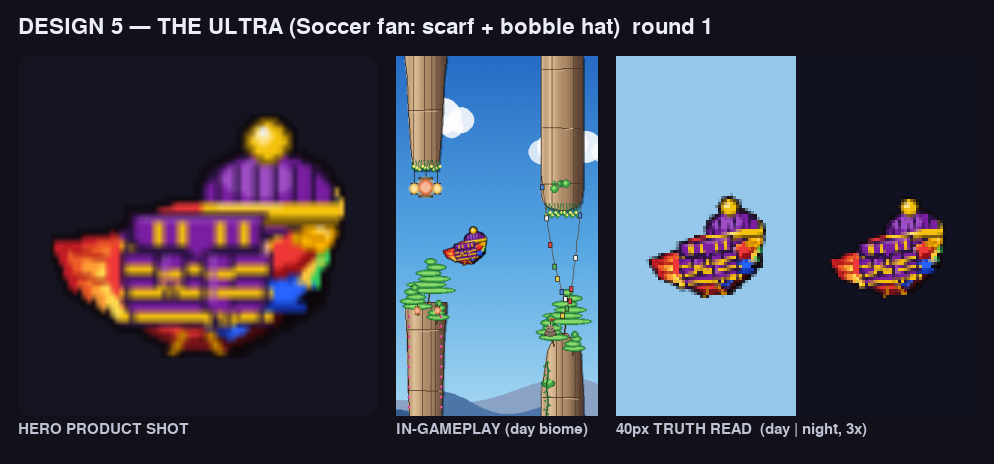
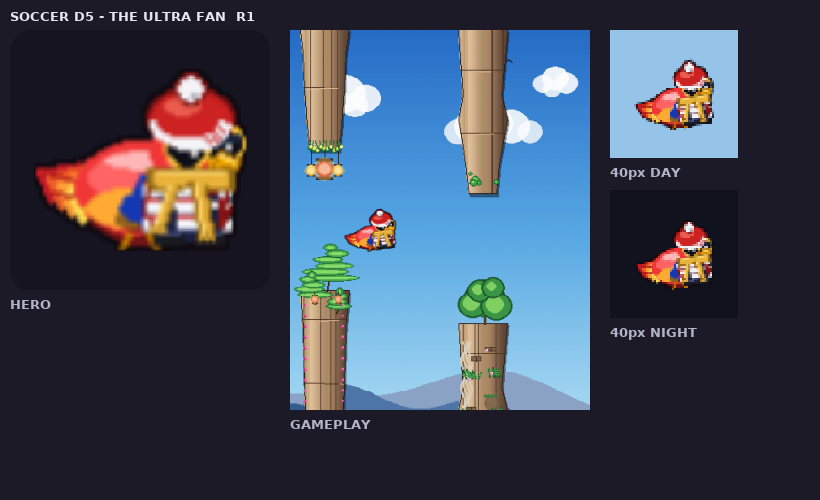
soccer D5 v2: The Ultra Fan — HX,HY jersey anchor + bobble hat + gold scarf
Re-anchor the supporter jersey on the head anchors (HX,HY) using the proven
baseball jersey polygon so the torso sits where the bird body is (top y=49,
hem y=64, nothing above y=49). Replace the flat headband with a full rounded
bobble HAT dome + proud pompom on the crown, and make the looped gold club
SCARF with two staggered fringed tails the hero, drawn last in front.

Claude-Session: https://claude.ai/code/session_01HafGQfRZVDiGkQqpJPr5Cm

diff --git a/tools/soccer_candidates/design_5.py b/tools/soccer_candidates/design_5.py
@@ -1,26 +1,21 @@
-"""DESIGN 5 — THE ULTRA (Soccer / Football — supporter / fan).
+"""DESIGN 5 — THE ULTRA FAN (Soccer / Football — supporter, v2).
 
 Scratch exploration only — NOT registered in store_skins.BUILDERS. Pip the
 scarlet macaw kitted as a match-day terrace fan rather than a player: the SET's
-only NON-player, the loudest break from the clean athletic kits. The read is
-carried by KNITWEAR, not a kit — a chunky club SCARF looped at the neck with
-two fringed tails streaming down the chest (drawn LAST, the hero), a bobble
-BEANIE on the crown, a WHITE-hooped jersey on the torso, and a dab of cheek
-face-paint. Club purple + gold.
+only NON-player. The read is carried by KNITWEAR + a club SCARF, not an athletic
+kit. The hero is a gold club SCARF looped once at the neck with two staggered
+fringed tails draped down the chest (drawn LAST, in front of everything), under
+a full bobble HAT on the crown.
 
-Two-garment legibility is the whole job at 40px, so the jersey and the scarf
-deliberately speak DIFFERENT stripe languages: the replica TOP is white hoops
-on purple (a cheap club shirt), while the chunky SCARF is gold hoops on purple.
-White-vs-gold is what splits the torso into two reads instead of one striped
-mass. The two scarf tails are kept apart by a strip of bare scarlet chest and
-staggered hard in length so they read as two streamers, not a bib.
+v2 fix: the jersey is anchored on the HEAD anchors (HX,HY) using the proven
+baseball jersey polygon (tools/sports_candidates/design_4.py) so the torso sits
+where the bird's body actually is — jersey top y=HY+8 (=49), hem y=HY+23 (=64).
+Nothing from the jersey rises above y=49. The crown wears a full rounded bobble
+HAT dome (NOT a flat headband) with a pompom standing proud on top.
 
-The costume is painted OVER the scarlet body (head stays the macaw so Pip still
-reads as a parrot). Everything is held INSIDE the base bird footprint: the
-beanie sits on the crown, the scarf tails stop above the feet line, and nothing
-balloons the torso — the knit silhouette alone says "fan", not "player".
-
-Headless render: tools/soccer_candidates/render_design_5.py.
+The supporter speaks two stripe languages on purpose: the replica TOP is white
+HOOPS on red, while the chunky SCARF is solid GOLD. Red shirt vs gold scarf is
+what splits the chest into two clean reads at 40px.
 """
 import pygame
 
@@ -28,151 +23,102 @@ from game import store_skins
 from game.store_skins import HX, HY, CROWN_Y, _poly
 
 
-# Club purple + gold, with a deep-purple knit value so the chunky scarf and the
-# striped shirt still separate after the 40px downscale. Three values per
-# material (knit, gold) keep the knitwear reading as round/woolly, not flat.
-_ULT_PURP    = (122, 31, 162)       # #7A1FA2 club purple (jersey / scarf body)
-_ULT_PURP_D  = (42, 19, 64)         # #2A1340 deep purple knit shadow / linework
-_ULT_PURP_H  = (158, 78, 196)       # purple highlight (knit crowns / collar)
-_ULT_GOLD    = (244, 194, 13)       # #F4C20D club gold (scarf stripes / band)
-_ULT_GOLD_H  = (255, 226, 120)      # gold glint
-_ULT_GOLD_D  = (120, 90, 10)        # crisp gold underline so it reads as kit
-_ULT_WHITE   = (244, 244, 248)      # #F4F4F8 white (jersey hoops / pompom glint)
-_ULT_WHITE_D = (170, 172, 188)      # cool white shade — undercut on jersey hoops
-_ULT_CHEEK   = (232, 160, 180)      # #E8A0B4 cheek face-paint dab
-
-
-# Body centre in composite space (parrot body centre (32,32) + PARROT_DY=20).
-BCX, BCY = 32, 52
-
-
-def _fringe_zigzag(surf, color, x0, x1, y, depth, teeth):
-    """A bold notched ZIGZAG silhouette along a tail end → the ragged frayed
-    HEM of a knit scarf. Drawn as a filled triangle fan (2px-class teeth) so the
-    jagged edge survives the 40px downscale where thin internal ticks vanish.
-    Hand-stepped per candidate so each keeps its own fringe geometry."""
-    span = max(1, x1 - x0)
-    pts = [(x0, y)]
-    for i in range(teeth):
-        tx0 = x0 + round(span * i / teeth)
-        tx1 = x0 + round(span * (i + 1) / teeth)
-        mid = (tx0 + tx1) // 2
-        pts.append((mid, y + depth))     # tooth tip dips below the hem
-        pts.append((tx1, y))             # back up to the hem line
-    pts.append((x1, y))
-    _poly(surf, color, pts)
+# Club red + gold. Three values per material keep the knit reading round, not
+# flat, after the 40px downscale.
+_RED      = (204, 34, 34)        # #CC2222 club red — jersey field, hat, socks
+_RED_D    = (132, 20, 20)        # deep red shadow / linework
+_RED_H    = (236, 92, 78)        # red highlight (hat sheen)
+_WHITE    = (244, 244, 248)      # #F4F4F8 jersey hoops / hat rim / pompom
+_WHITE_D  = (176, 178, 192)      # cool white shade
+_GOLD     = (232, 178, 58)       # #E8B23A scarf face (the hero gold)
+_GOLD_H   = (255, 218, 120)      # gold glint
+_GOLD_D   = (150, 108, 24)       # gold shadow so the scarf reads as draped fabric
+_NAVY     = (28, 34, 68)         # #1C2244 shorts / sock pillars / boots
+_NAVY_H   = (74, 84, 132)        # navy rim glint
+_DARK     = (26, 26, 34)         # near-black boot body
 
 
 def _paint(surf, _a):
-    # --- WHITE-hooped club JERSEY over the torso --------------------------------
-    # The supporter's replica top: club purple filled, then bold WHITE horizontal
-    # hoops (deliberately NOT gold — gold is reserved for the scarf, so the two
-    # garments read as two distinct stripe palettes instead of one striped mass).
-    # Kept inside the footprint (top ~BCY-12, hem ~BCY+11) so it never balloons.
-    jersey = [(BCX - 15, BCY - 9), (BCX - 16, BCY - 1), (BCX - 14, BCY + 11),
-              (BCX + 13, BCY + 11), (BCX + 15, BCY - 1), (BCX + 13, BCY - 9),
-              (BCX + 4, BCY - 12), (BCX - 6, BCY - 12)]
-    _poly(surf, _ULT_PURP, jersey)
-
-    # White hoops — 2px bands on a 5px pitch, with a cool-white undercut so the
-    # bar reads as cloth, not a gap. Clipped to the jersey so they don't leak.
+    # --- WHITE-hooped club JERSEY over the torso (HX,HY anchors) -----------------
+    # Proven baseball jersey footprint, recoloured: red field + horizontal white
+    # hoops. Jersey top sits at HY+8 (y=49), hem at HY+23 (y=64) — nothing rises
+    # above y=49, so it never balloons up into the macaw's chin/cheek.
+    jersey = [(HX - 13, HY + 8), (HX - 14, HY + 18), (HX - 10, HY + 23),
+              (HX + 8, HY + 23), (HX + 11, HY + 18), (HX + 9, HY + 8)]
+    _poly(surf, _RED, jersey)
+    # Three bold WHITE hoops, each 3px tall, evenly spaced from HY+10..HY+21.
+    # Clipped to the jersey footprint so the bars never leak past the cloth edge.
     clip_prev = surf.get_clip()
-    surf.set_clip(pygame.Rect(BCX - 16, BCY - 12, 32, 24))
-    for sy in range(BCY - 6, BCY + 11, 5):
-        pygame.draw.line(surf, _ULT_WHITE, (BCX - 16, sy), (BCX + 15, sy), 2)
-        pygame.draw.line(surf, _ULT_WHITE_D, (BCX - 16, sy + 2), (BCX + 15, sy + 2), 1)
+    surf.set_clip(pygame.Rect(HX - 14, HY + 8, 26, 16))
+    for sy in (HY + 10, HY + 15, HY + 20):
+        pygame.draw.rect(surf, _WHITE, (HX - 14, sy, 26, 3))
+        pygame.draw.line(surf, _WHITE_D, (HX - 14, sy + 3), (HX + 12, sy + 3), 1)
     surf.set_clip(clip_prev)
-    pygame.draw.polygon(surf, _ULT_PURP_D, jersey, 1)
+    # Off-side shade so the jersey reads as a rounded torso, not a flat card.
+    _poly(surf, _RED_D, [(HX + 5, HY + 9), (HX + 11, HY + 18),
+                         (HX + 8, HY + 23), (HX + 6, HY + 22)])
+    pygame.draw.polygon(surf, _RED_D, jersey, 1)
 
-    # --- Cheek face-paint dab (a fan tell, off the macaw cheek) -----------------
-    # A soft purple/pink diagonal swipe on the near cheek — supporter war-paint.
-    # One value so it reads as paint on feather, not a mask.
-    pygame.draw.line(surf, _ULT_CHEEK, (HX - 7, HY + 3), (HX - 1, HY + 6), 3)
-    pygame.draw.line(surf, _ULT_GOLD, (HX - 6, HY + 1), (HX - 2, HY + 3), 1)
+    # --- Dark SHORTS band under the jersey hem (HY+23..26) -----------------------
+    pygame.draw.rect(surf, _NAVY, (HX - 11, HY + 23, 20, 4), border_radius=1)
+    pygame.draw.line(surf, _NAVY_H, (HX - 10, HY + 23), (HX + 7, HY + 23), 1)
 
-    # --- Bobble BEANIE on the crown (round, with a pompom) ----------------------
-    # A knit cap pulled over the crown: a rounded purple dome, a folded ribbed
-    # brim with a gold band, and a gold POMPOM bobble standing proud on top.
-    cap_cx, cap_top = HX, CROWN_Y - 3
-    # Dome — an ellipse capping the head. Deep-purple base, a MID-purple body, and
-    # only a small lit cap near the crown: keeping the dome darker than the gold
-    # band gives the band (and bobble) clear value separation so the hat doesn't
-    # collapse into one gold blob.
-    pygame.draw.ellipse(surf, _ULT_PURP_D, (cap_cx - 14, cap_top - 1, 28, 18))
-    pygame.draw.ellipse(surf, _ULT_PURP, (cap_cx - 13, cap_top, 26, 16))
-    pygame.draw.ellipse(surf, _ULT_PURP_H, (cap_cx - 9, cap_top + 1, 13, 6))
-    # Vertical knit ribs across the dome so it reads chunky-knit, not smooth.
-    for rx in range(cap_cx - 11, cap_cx + 12, 4):
-        pygame.draw.line(surf, _ULT_PURP_D, (rx, cap_top + 2), (rx, cap_top + 11), 1)
-    # Folded ribbed brim — a gold band hugging the head, the classic beanie cuff.
-    pygame.draw.line(surf, _ULT_GOLD_D, (cap_cx - 14, cap_top + 12), (cap_cx + 14, cap_top + 12), 5)
-    pygame.draw.line(surf, _ULT_GOLD, (cap_cx - 14, cap_top + 11), (cap_cx + 14, cap_top + 11), 3)
-    pygame.draw.line(surf, _ULT_GOLD_H, (cap_cx - 11, cap_top + 10), (cap_cx + 2, cap_top + 10), 1)
-    # POMPOM bobble — a bigger round ball lifted clear ABOVE the dome line with a
-    # dark rim and a bright white glint, so the bobble pops as a distinct sphere
-    # proud of the crown rather than blending into the gold band below.
-    bob_x, bob_y = cap_cx, cap_top - 5
-    pygame.draw.circle(surf, _ULT_PURP_D, (bob_x, bob_y), 6)   # dark rim halo
-    pygame.draw.circle(surf, _ULT_GOLD_D, (bob_x, bob_y), 5)
-    pygame.draw.circle(surf, _ULT_GOLD, (bob_x, bob_y), 4)
-    pygame.draw.circle(surf, _ULT_WHITE, (bob_x - 1, bob_y - 2), 2)
-    pygame.draw.circle(surf, _ULT_GOLD_H, (bob_x + 1, bob_y), 1)
+    # --- SOCKS — two navy pillars (HY+13..HY+24) with a single white hoop -------
+    for sx in (HX - 9, HX + 3):
+        pygame.draw.rect(surf, _NAVY, (sx, HY + 13, 5, 11), border_radius=1)
+        pygame.draw.line(surf, _NAVY_H, (sx, HY + 14), (sx, HY + 23), 1)
+        pygame.draw.line(surf, _WHITE, (sx, HY + 15), (sx + 4, HY + 15), 2)
 
-    # --- Chunky knit SCARF looped at the neck (HERO — drawn LAST) ----------------
-    # The signature. A thick scarf loops across the throat then drops two fringed
-    # tails down the chest. GOLD hoops on purple (vs the jersey's white hoops)
-    # make the scarf its own garment. A 2px deep-purple rim on the loop and both
-    # tails reads the knit as chunky and keeps it separate from the shirt under
-    # it. Tails stay within the footprint width and stop above the feet line.
-    ny = BCY - 9
-    # The neck loop — a fat band wrapping the throat, with a knot dip at centre
-    # where the two tails leave from. Shadow underlay first for thickness.
-    loop = [(BCX - 14, ny - 3), (BCX + 14, ny - 3), (BCX + 13, ny + 4),
-            (BCX + 4, ny + 4), (BCX, ny + 7), (BCX - 4, ny + 4),
-            (BCX - 13, ny + 4)]
-    _poly(surf, _ULT_PURP_D, loop)
-    loop_in = [(BCX - 12, ny - 1), (BCX + 12, ny - 1), (BCX + 11, ny + 3),
-               (BCX + 3, ny + 3), (BCX, ny + 5), (BCX - 3, ny + 3),
-               (BCX - 11, ny + 3)]
-    _poly(surf, _ULT_PURP, loop_in)
-    # Gold hoops across the loop so the scarf carries the gold language.
-    for gx in (BCX - 9, BCX - 4, BCX + 4, BCX + 9):
-        pygame.draw.line(surf, _ULT_GOLD, (gx, ny - 1), (gx, ny + 3), 2)
-    pygame.draw.line(surf, _ULT_PURP_H, (BCX - 11, ny - 1), (BCX + 11, ny - 1), 1)
-    pygame.draw.polygon(surf, _ULT_PURP_D, loop, 2)
+    # --- BOOTS at the feet line (HY+24..27) with a sole tick --------------------
+    for fx in (HX - 11, HX + 1):
+        pygame.draw.rect(surf, _DARK, (fx, HY + 24, 9, 3), border_radius=2)
+        pygame.draw.line(surf, _NAVY_H, (fx + 1, HY + 24), (fx + 7, HY + 24), 1)
+        # Sole tick under the boot — the football-boot read.
+        pygame.draw.line(surf, _DARK, (fx, HY + 27), (fx + 8, HY + 27), 1)
 
-    # Two fringed TAILS streaming down the chest, split by a wide strip of bare
-    # scarlet chest so the negative space reads them as TWO streamers, not a bib.
-    # Each tail is a gold-EDGED purple strap (a continuous 1px gold rim down both
-    # sides + gold rungs) so it reads as the gold scarf laid OVER the white-hooped
-    # shirt — gold edges vs white bars is the contrast that keeps the strap on top
-    # of the jersey legible. The near (right) tail hangs much longer and drops its
-    # fringe onto bare scarlet BELOW the jersey hem; the far (left) tail is short
-    # and tucked, so the two are staggered hard. Drawn LAST → fully on top.
-    def _tail(x0, x1, top, btm, lit_left):
-        # A gold-rimmed purple knit strap with rungs and a zigzag-fringe hem.
-        body = [(x0, top), (x1, top), (x1, btm), (x0, btm)]
-        _poly(surf, _ULT_PURP_D, body)
-        _poly(surf, _ULT_PURP, [(x0 + 1, top + 1), (x1 - 1, top + 1),
-                                (x1 - 1, btm - 1), (x0 + 1, btm - 1)])
-        # Continuous gold side-rails make the strap pop off the white-hooped shirt.
-        pygame.draw.line(surf, _ULT_GOLD, (x0, top), (x0, btm), 1)
-        pygame.draw.line(surf, _ULT_GOLD, (x1, top), (x1, btm), 1)
-        # Gold knit rungs across the strap.
-        for hy in range(top + 3, btm - 1, 4):
-            pygame.draw.line(surf, _ULT_GOLD, (x0 + 1, hy), (x1 - 1, hy), 1)
-        if lit_left:
-            pygame.draw.line(surf, _ULT_PURP_H, (x0 + 2, top + 1), (x0 + 2, btm - 2), 1)
-        # Bold zigzag fringe at the hem — survives the downscale as a ragged edge.
-        _fringe_zigzag(surf, _ULT_GOLD, x0 - 1, x1 + 1, btm, 3, 3)
-        _fringe_zigzag(surf, _ULT_PURP_D, x0 - 1, x1 + 1, btm + 1, 2, 3)
+    # --- BOBBLE HAT on the crown (FULL rounded dome — NOT a band) ----------------
+    # A full rounded cap covering the crown with a white rim line, and a pompom
+    # standing proud on its very top. This is a hat shape, not a horizontal band.
+    pygame.draw.ellipse(surf, _RED_D, (HX - 13, CROWN_Y - 9, 26, 19))   # rim halo
+    pygame.draw.ellipse(surf, _RED, (HX - 12, CROWN_Y - 8, 24, 18))
+    pygame.draw.ellipse(surf, _RED_H, (HX - 8, CROWN_Y - 6, 11, 6))      # dome sheen
+    # White rim line hugging the cap's lower edge so the hat separates from crown.
+    pygame.draw.arc(surf, _WHITE, (HX - 12, CROWN_Y - 8, 24, 18),
+                    3.34, 6.08, 2)
+    # Pompom standing on the very top — white ball with a dark ring.
+    pygame.draw.circle(surf, _RED_D, (HX, CROWN_Y - 8), 5)
+    pygame.draw.circle(surf, _WHITE, (HX, CROWN_Y - 8), 4)
+    pygame.draw.circle(surf, _WHITE_D, (HX + 1, CROWN_Y - 6), 1)
 
-    # Near tail (right): long — its fringe lands at BCY+13, just past the hem, on
-    # bare scarlet. Left edge BCX+4 with the far tail's right edge BCX-3 leaves a
-    # ~7px bare-scarlet channel down the chest centre between the two streamers.
-    _tail(BCX + 4, BCX + 9, ny + 5, BCY + 13, lit_left=True)
-    # Far tail (left): short, tucked — fringe at BCY+4, well above the near hem.
-    _tail(BCX - 9, BCX - 4, ny + 5, BCY + 4, lit_left=False)
+    # --- SCARF (THE HERO — drawn LAST so it drapes in FRONT of everything) -------
+    # A gold club scarf looped once at the neck, with two staggered hanging tails.
+    # Gold shadow + bright gold face on every shape so the knit reads as fabric
+    # draped over the shirt, not a flat sticker. Loop sits at HY+5..11.
+    loop = [(HX - 13, HY + 5), (HX + 12, HY + 5), (HX + 12, HY + 11),
+            (HX + 3, HY + 11), (HX, HY + 9), (HX - 3, HY + 11), (HX - 12, HY + 11)]
+    _poly(surf, _GOLD_D, loop)
+    loop_in = [(HX - 11, HY + 6), (HX + 10, HY + 6), (HX + 10, HY + 10),
+               (HX + 3, HY + 10), (HX, HY + 8), (HX - 3, HY + 10), (HX - 10, HY + 10)]
+    _poly(surf, _GOLD, loop_in)
+    pygame.draw.line(surf, _GOLD_H, (HX - 10, HY + 6), (HX + 9, HY + 6), 1)
+    pygame.draw.polygon(surf, _GOLD_D, loop, 1)
+
+    def _tail(x0, y0, x1, y1, w):
+        # A gold knit strap draped down the chest: a dark gold underlay for
+        # thickness, a bright gold face, and a notched fringe at the hanging end.
+        half = w // 2
+        pygame.draw.line(surf, _GOLD_D, (x0, y0), (x1, y1), w)
+        pygame.draw.line(surf, _GOLD, (x0, y0), (x1, y1), max(2, w - 2))
+        pygame.draw.line(surf, _GOLD_H, (x0 - half + 1, y0), (x1 - half + 1, y1), 1)
+        # Fringe-tick ends — two short gold teeth past the hem so it frays.
+        for fx in (x1 - half, x1, x1 + half):
+            pygame.draw.line(surf, _GOLD_D, (fx, y1), (fx, y1 + 2), 1)
+        pygame.draw.line(surf, _GOLD, (x1 - half, y1 + 1), (x1 + half, y1 + 1), 1)
+
+    # Near tail — longer, drops to ~HY+24, 5px wide. Far tail — shorter (2px
+    # above), ~HY+22, 4px wide. Staggered length reads them as two streamers.
+    _tail(HX + 2, HY + 10, HX + 4, HY + 24, 5)
+    _tail(HX - 6, HY + 10, HX - 10, HY + 22, 4)
 
 
 build = store_skins._make_skin(_paint)
